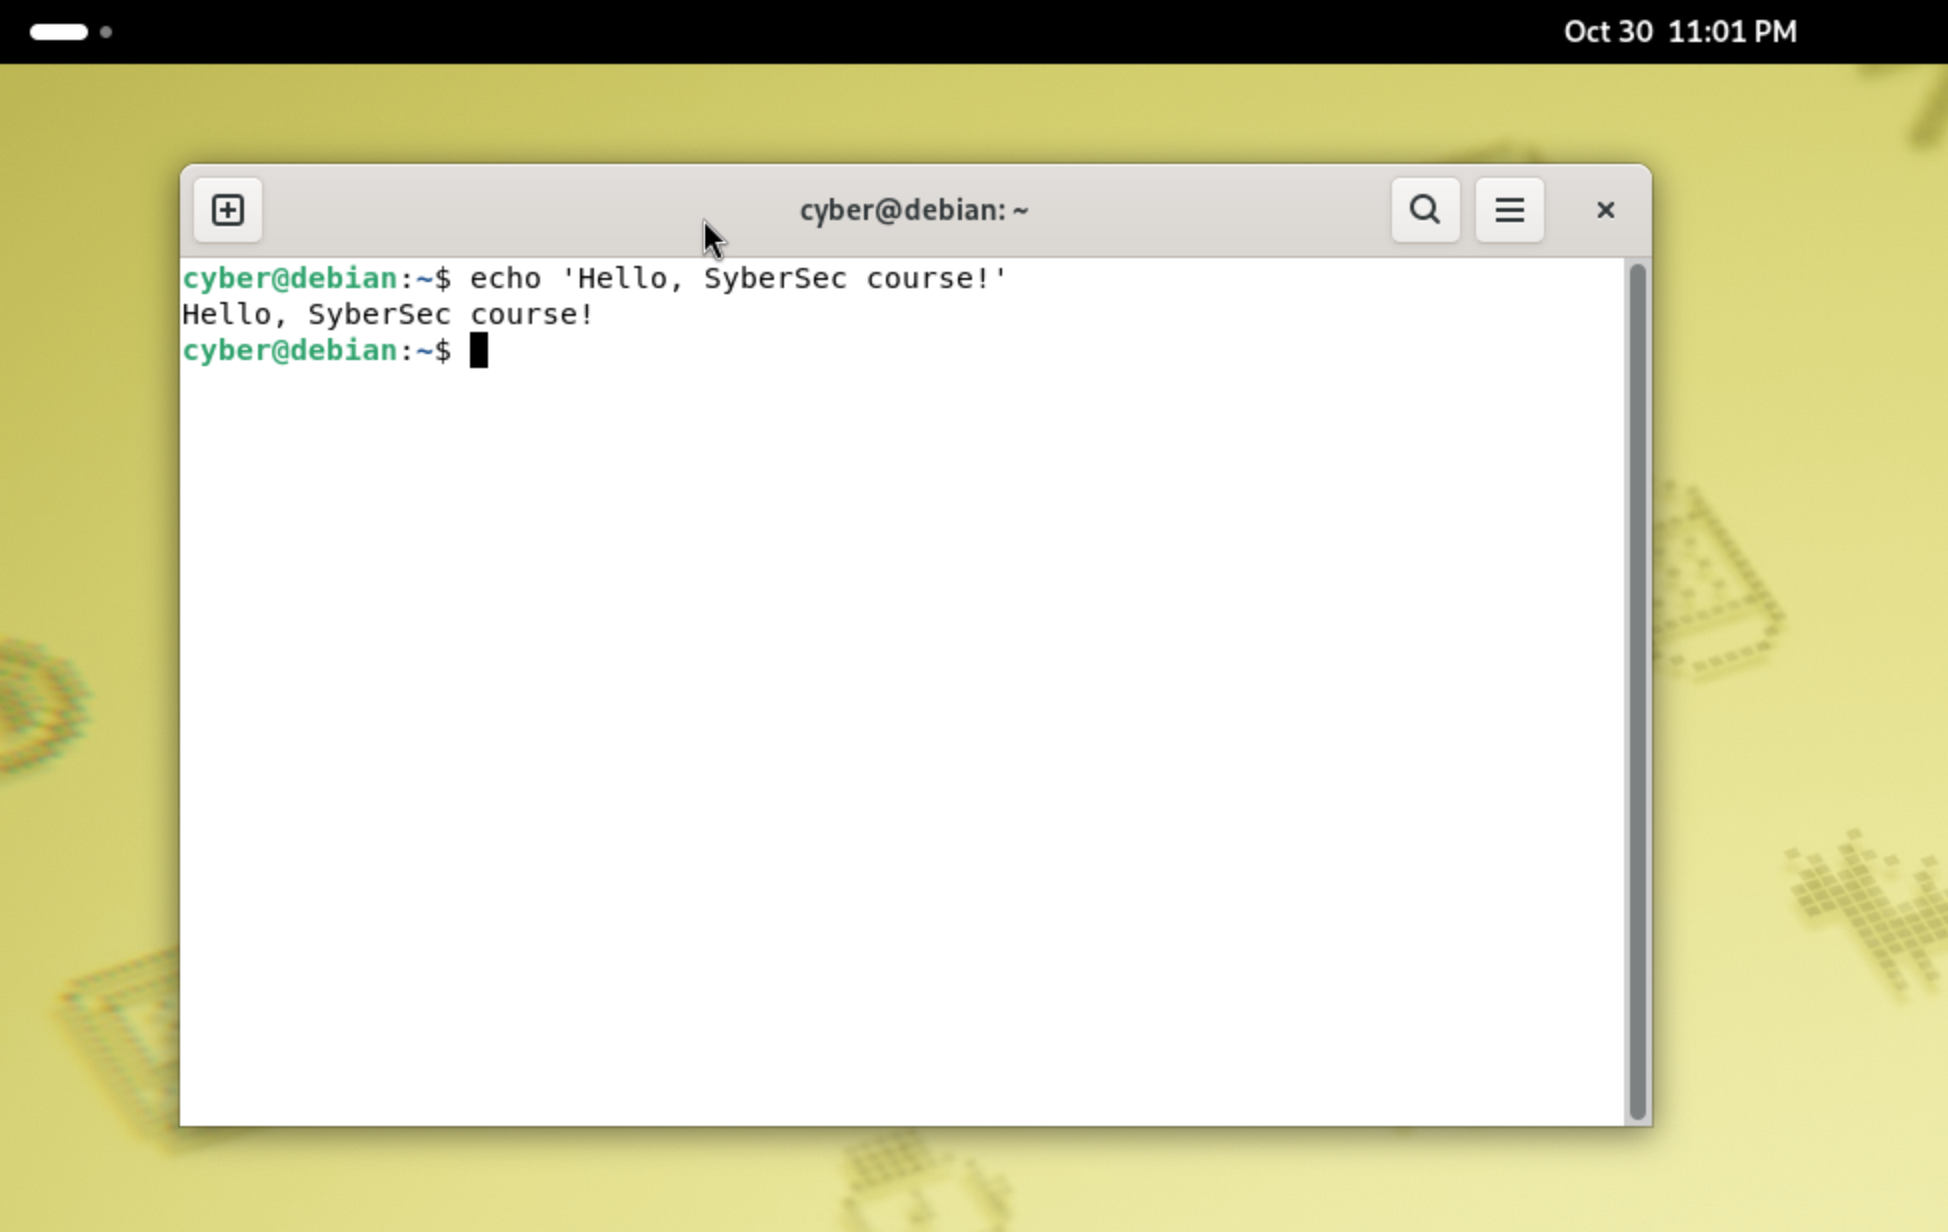
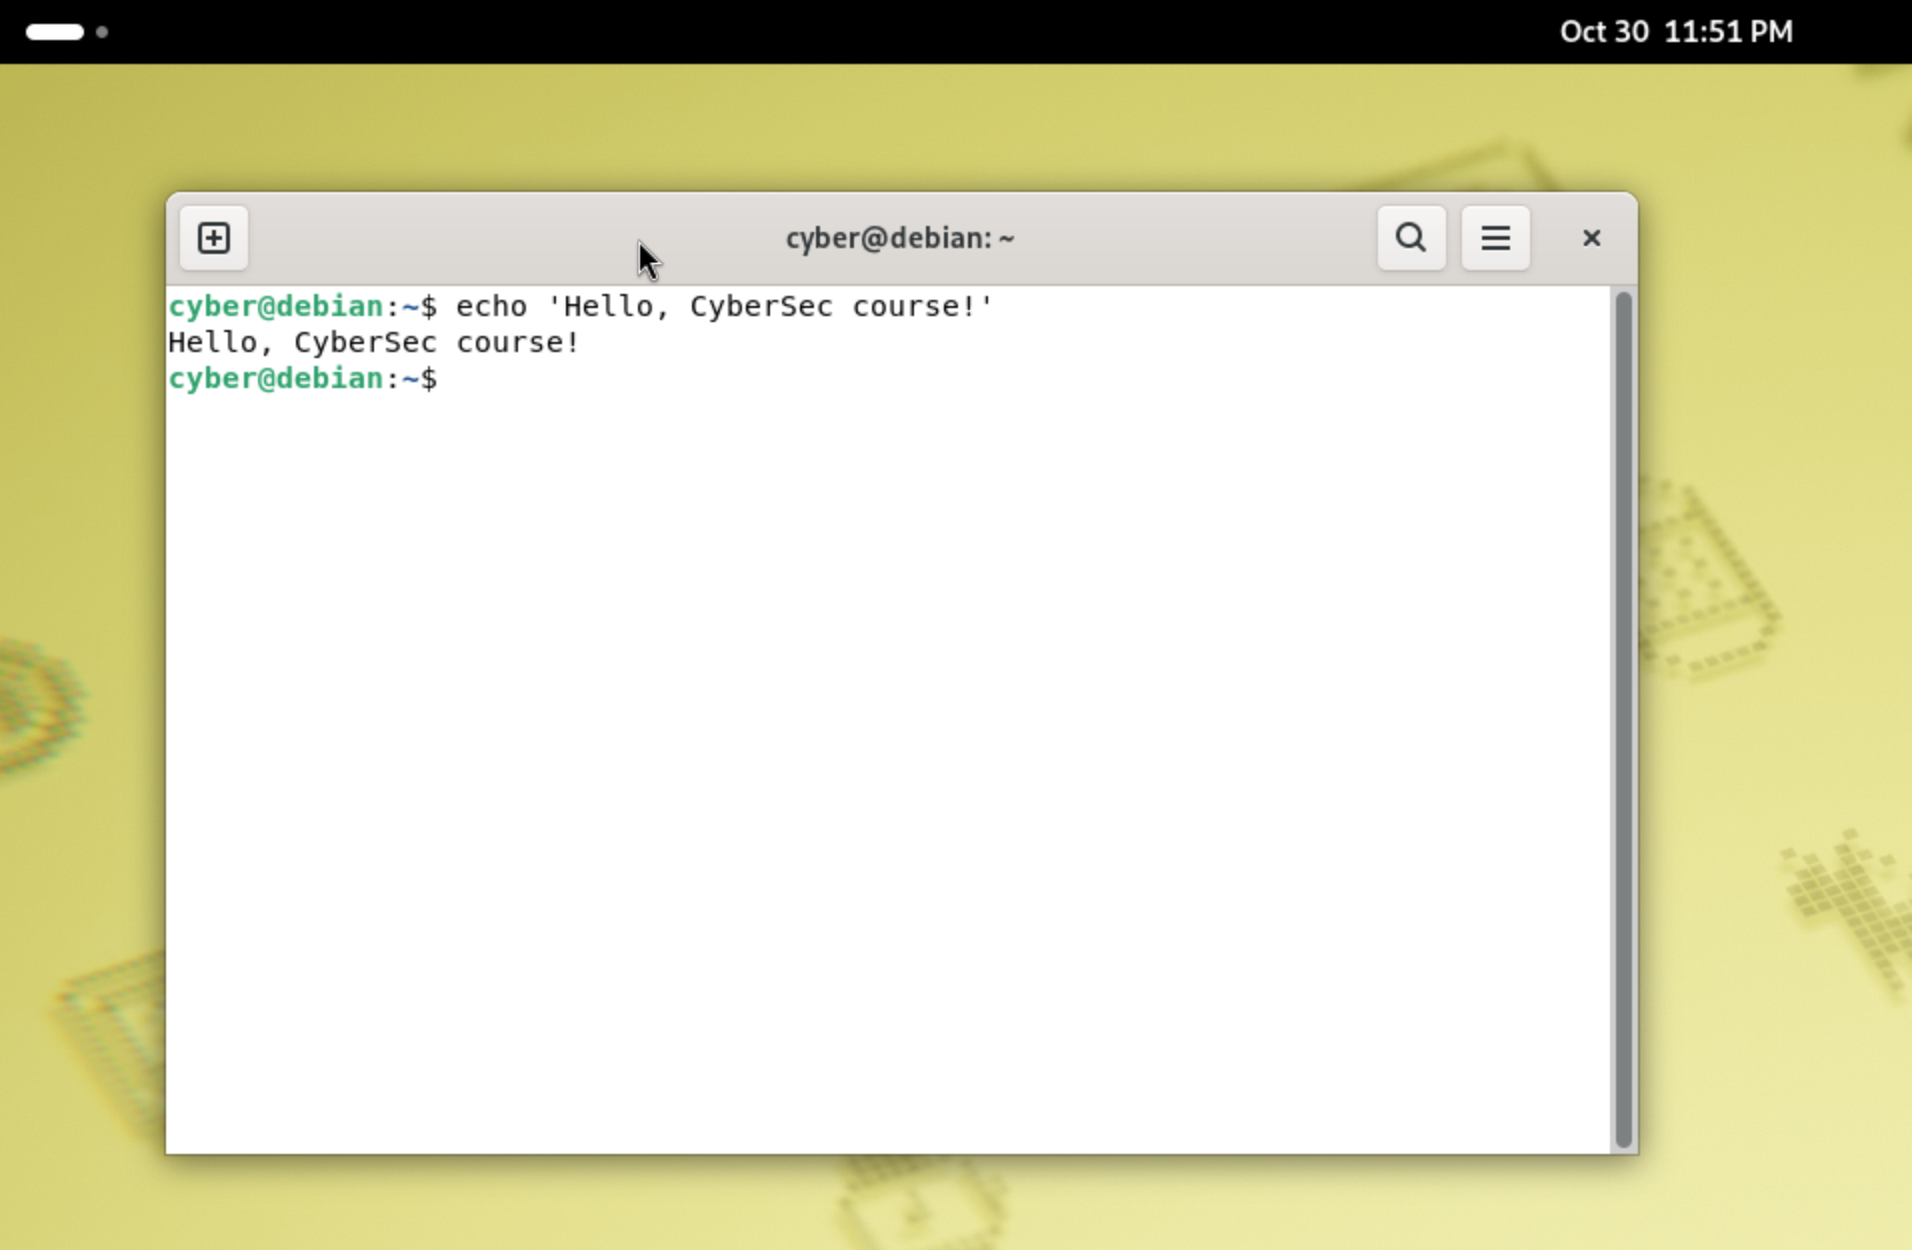
- typo - assets update

diff --git a/h2-scene.md b/h2-scene.md
@@ -2,7 +2,7 @@
 
 ## Following the scene (working title)
 
-### Podact
+### Podcast
 
 Text
 
